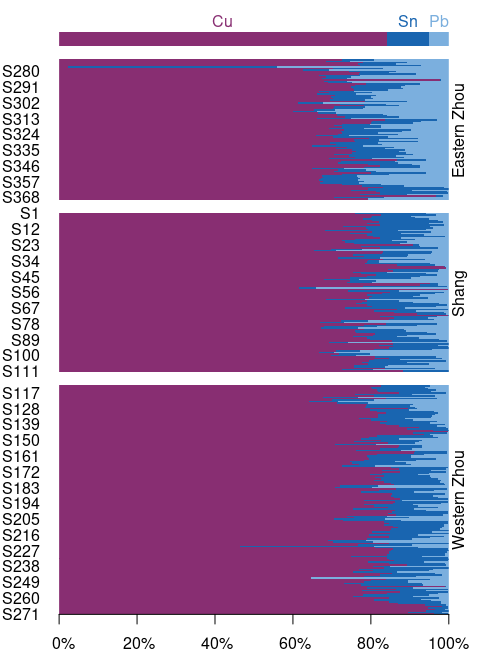
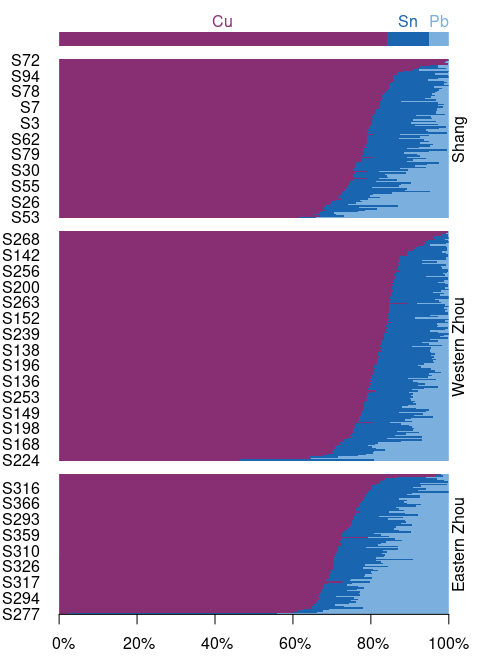
Update README and vignette

Changed region(s): [[0.125, 0.0625, 0.9688, 0.9375], [0.0, 0.0625, 0.0938, 0.9375]]

diff --git a/README.md b/README.md
@@ -45,11 +45,12 @@ Aitchison (1986). **nexus** provides tools for chemical fingerprinting
 and source tracking of ancient materials. This package provides methods
 for compositional data analysis:
 
+- Compositional statistics.
+- Compositional data visualization.
 - Logratio transformations: `transform_lr()`, `transform_clr()`,
   `transform_alr()`, `transform_ilr()`, `transform_plr()`.
-- Compositional statistics.
 - Zero and missing value replacement.
-- Outlier detection: `outliers()`.
+- Outlier detection: `detect_outlier()`.
 
 This package also includes methods for provenance studies:
 
@@ -123,20 +124,19 @@ groups(coda) <- bronze$dynasty
 
 ``` r
 ## Compositional barplots of major elements
-barplot(coda, select = is_element_major(coda), border = NA, space = 0)
+barplot(coda, select = is_element_major(coda), order_rows = "Cu",
+        border = NA, space = 0)
 ```
 
 ![](man/figures/README-barplot-1.png)<!-- -->
 
 ``` r
-## Compositional mean by artefact
-coda <- condense(coda, by = list(bronze$dynasty, bronze$reference))
-
 ## Log-ratio analysis
 ## (PCA of centered log-ratio; outliers should be removed first)
 clr <- transform_clr(coda, weights = TRUE)
 lra <- pca(clr)
 
+## Visualize results
 viz_individuals(lra, color = c("#004488", "#DDAA33", "#BB5566"))
 viz_hull(x = lra, border = c("#004488", "#DDAA33", "#BB5566"))
 
@@ -223,6 +223,15 @@ Egozcue, J. J., V. Pawlowsky-Glahn, G. Mateu-Figueras, and C.
 Barceló-Vidal. 2003. “Isometric Logratio Transformations for
 Compositional Data Analysis.” *Mathematical Geology* 35 (3): 279–300.
 <https://doi.org/10.1023/A:1023818214614>.
+
+</div>
+
+<div id="ref-egozcue2024" class="csl-entry">
+
+Egozcue, Juan José, Caterina Gozzi, Antonella Buccianti, and Vera
+Pawlowsky-Glahn. 2024. “Exploring Geochemical Data Using Compositional
+Techniques: A Practical Guide.” *Journal of Geochemical Exploration* 258
+(March): 107385. <https://doi.org/10.1016/j.gexplo.2024.107385>.
 
 </div>
 
@@ -315,6 +324,16 @@ of Statistics and Its Application* 8 (1): 271–99.
 Greenacre, Michael J. 2019. *Compositional Data Analysis in Practice*.
 Chapman & Hall/CRC Interdisciplinary Statistics. Boca Raton: CRC Press,
 Taylor & Francis Group.
+
+</div>
+
+<div id="ref-grunsky2024" class="csl-entry">
+
+Grunsky, Eric, Michael Greenacre, and Bruce Kjarsgaard. 2024. “GeoCoDA:
+Recognizing and Validating Structural Processes in Geochemical Data. A
+Workflow on Compositional Data Analysis in Lithogeochemistry.” *Applied
+Computing and Geosciences* 22 (June): 100149.
+<https://doi.org/10.1016/j.acags.2023.100149>.
 
 </div>
 
